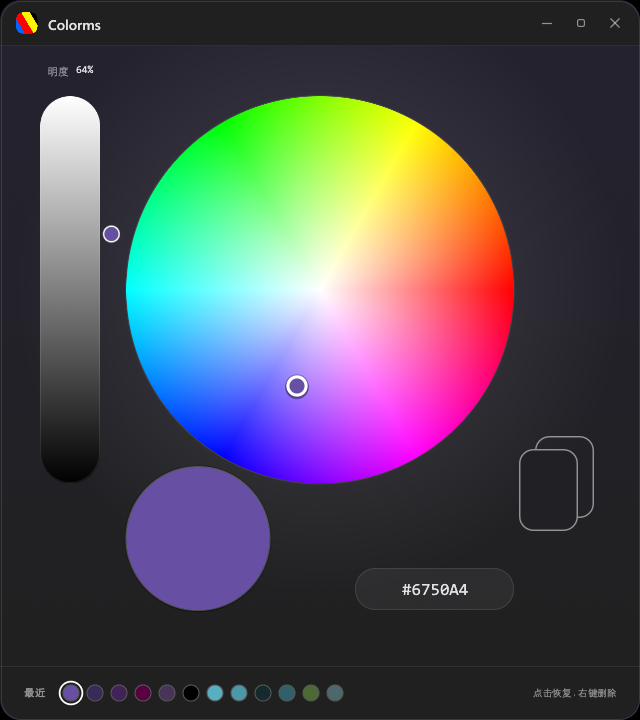
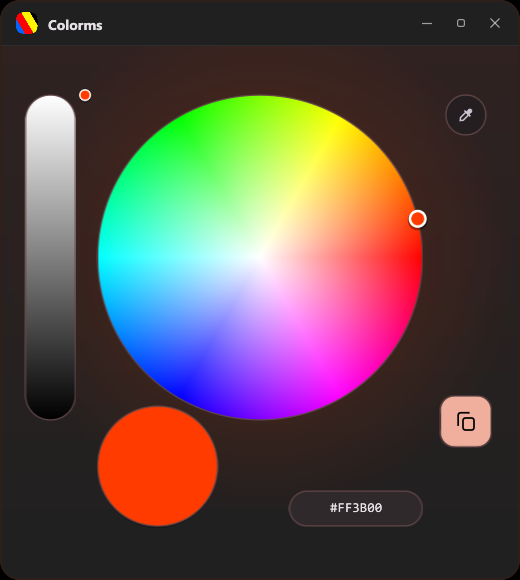
Release 2.1.0

diff --git a/README.md b/README.md
@@ -14,13 +14,17 @@
 - **明度胶囊**：左侧黑白渐变竖条，顶部 100% 白色、底部 0% 黑色。
 - **圆形预览**：左下角实时显示最终颜色。
 - **十六进制值**：右下胶囊显示 `#RRGGBB`，点击即复制。
-- **复制按钮**：右侧双层圆角卡片本身就是复制图标（无内嵌图标/文字）；
-  点击复制当前色值，整个卡片从灰色变为白色作为确认，上层卡片会遮住下层重叠部分。
-- **动态主题**：背景、复制按钮、描边随当前颜色生成 Material You 暗色配色。
+- **屏幕吸管（右上角）**：点击右上角 MD3 图标按钮（或按 `I`）开启全局屏幕吸色，
+  窗口临时置顶实时预览光标下像素颜色；左键确认（自动拦截点击，不误触底部软件按钮），右键或 `Esc` 取消并还原颜色。
+- **MD3 主操作复制按钮**：右下 `56 × 56` Material Design 3 主操作按钮（`primary-container` / `on-primary-container`），
+  带状态层（hover 8% / pressed 10%）与 M3 Expressive 形状形变（默认 `16dp` 圆角 → 按压 `12dp` → 已复制形变为圆形并切换为 `✓` 确认图标）。
+- **解析 SDF 抗锯齿描边**：CPU 光栅器采用半开左上覆盖规则，配合在物理像素分辨率生成的有向距离场（SDF）圆角与圆环描边掩码，
+  让色盘、明度条、预览圆、十六进制胶囊、按钮与窗口外框的描边平滑闭合、零锯齿、零接缝。
+- **动态主题**：背景、容器色阶、复制按钮与描边随当前颜色生成 Material Design 3 暗色角色配色。
 - **无边框自适应窗口**：自定义标题栏 / 最小化 / 最大化 / 关闭，
   6px 边缘拖拽调整大小；Windows 下用**分层窗口**（`WS_EX_LAYERED` +
   `UpdateLayeredWindow`，逐像素 alpha）呈现，圆角因此是真抗锯齿的，
-  窗口本身没有原生边框；2px 窗框用预渲染的抗锯齿圆角掩码绘制。
+  窗口本身没有原生边框。
   同时去掉原生标题栏、禁用 DWM 过渡与自带圆角，
   首帧画完才显示窗口，避免白窗闪烁。最底部固定为 `#202020`。
 
@@ -29,7 +33,8 @@
 | 按键 | 作用 |
 | --- | --- |
 | `Ctrl + C` | 复制当前颜色 |
-| `Esc` | 关闭提示气泡 |
+| `I` | 开启 / 取消全局屏幕取色吸管 |
+| `Esc` | 取消吸管取色 / 关闭提示条 |
 
 ## 性能
 
